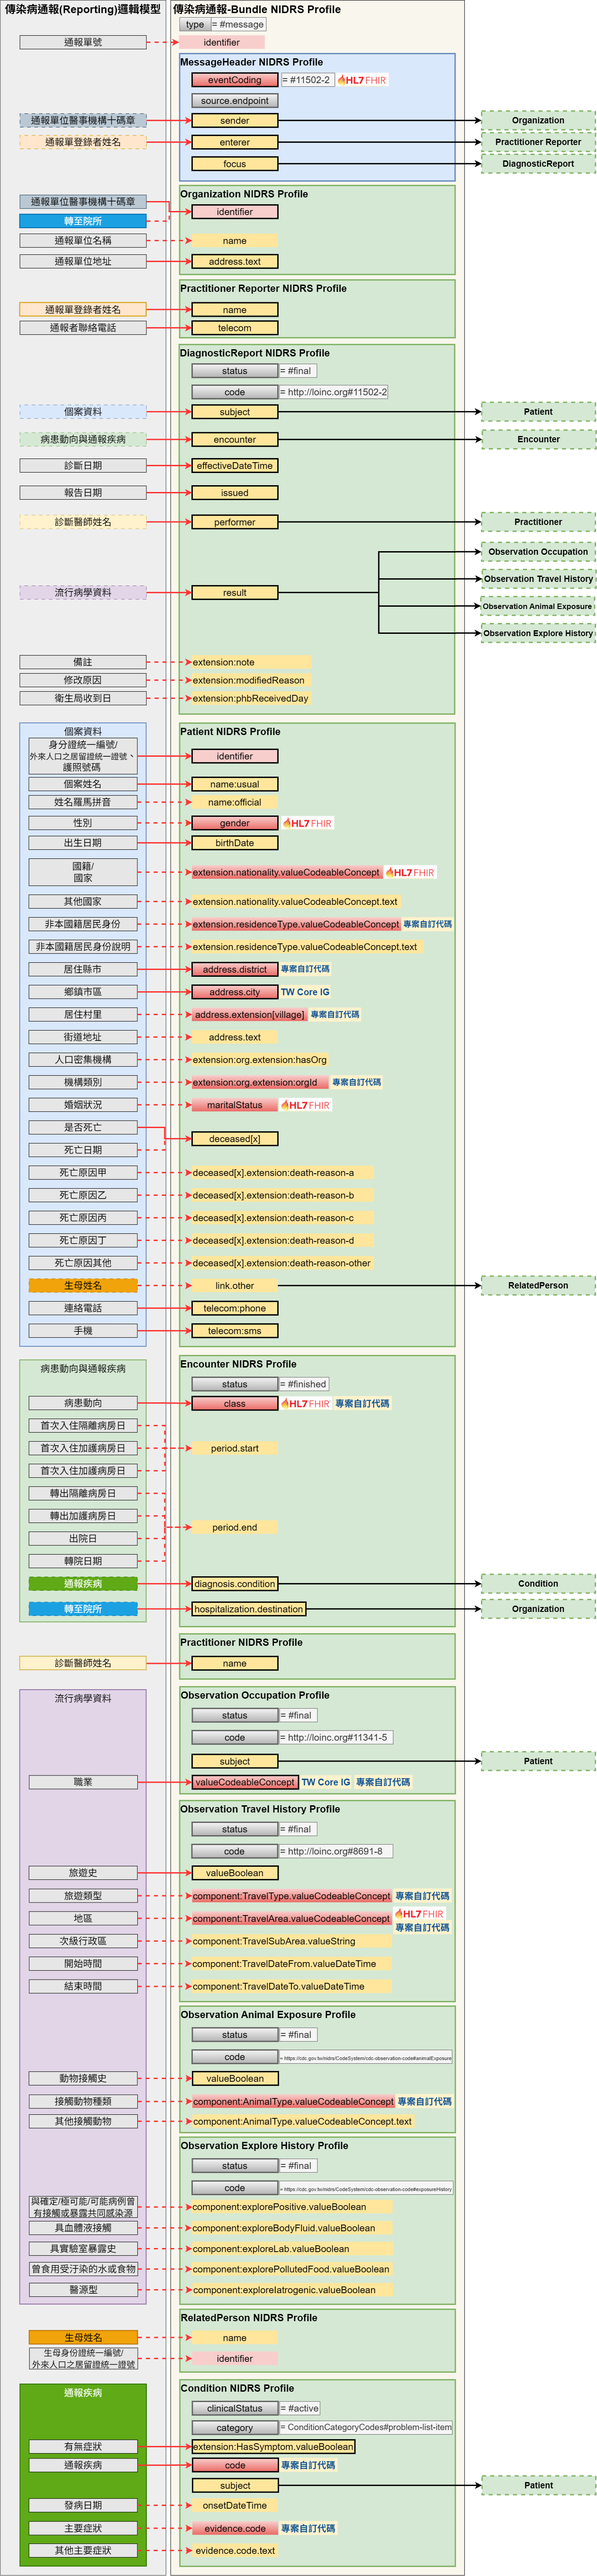
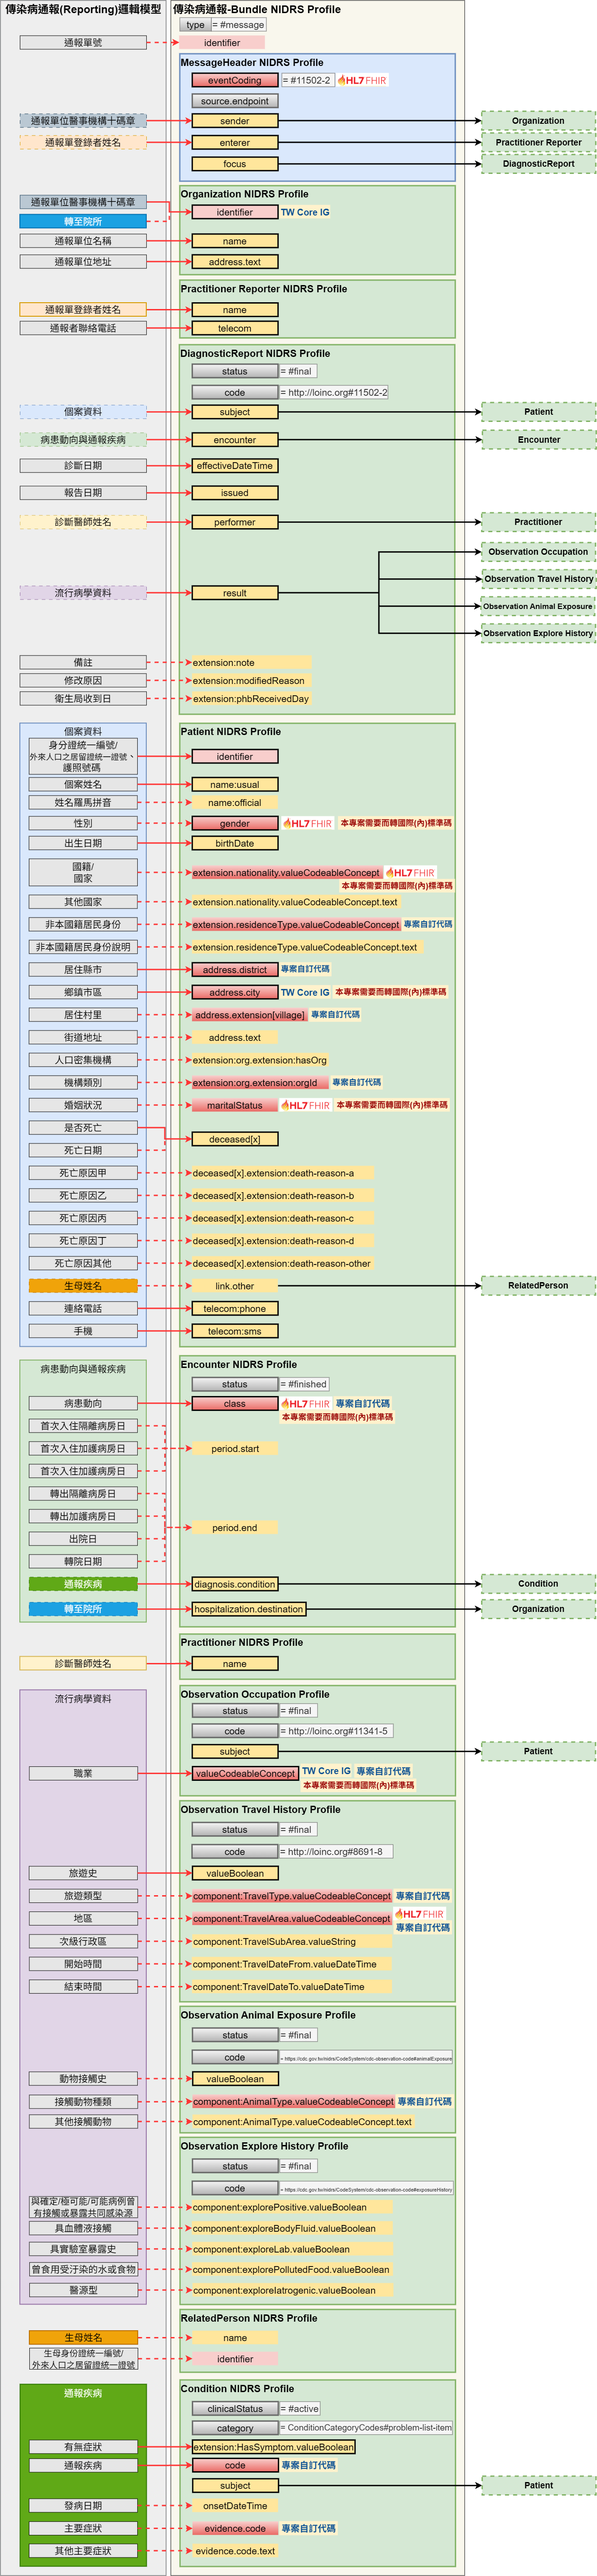
1008

diff --git a/custom-template/content/searchform.html b/custom-template/content/searchform.html
@@ -1,132 +1,132 @@
 <!DOCTYPE HTML>
 <html xml:lang="en" xmlns="http://www.w3.org/1999/xhtml" lang="en">
-  <head>
-    <meta charset="UTF-8" />
-    <title>Search {{title}} (Current Build)</title>
-    <meta name="viewport" content="width=device-width, initial-scale=1.0" />
-    <meta name="author" content="http://www.hl7.org" />
-    <link href="assets/css/ig.css" rel="stylesheet" />
-    <!-- Bootstrap core CSS -->
-    <link href="dist-hist/css/bootstrap.css" rel="stylesheet" />
-    <link href="assets-hist/css/bootstrap-fhir.css" rel="stylesheet" />
-    <!-- Project extras -->
-    <link href="assets-hist/css/project.css" rel="stylesheet" />
-    <link href="assets-hist/css/pygments-manni.css" rel="stylesheet" />
-    <link href="jquery-ui.css" rel="stylesheet" />
-    <!-- Favicons -->
-    <link rel="apple-touch-icon-precomposed" sizes="144x144" href="assets/ico/apple-touch-icon-144-precomposed.png" />
-    <link rel="apple-touch-icon-precomposed" sizes="114x114" href="assets/ico/apple-touch-icon-114-precomposed.png" />
-    <link rel="apple-touch-icon-precomposed" sizes="72x72" href="assets/ico/apple-touch-icon-72-precomposed.png" />
-    <link rel="apple-touch-icon-precomposed" href="assets/ico/apple-touch-icon-57-precomposed.png" />
-    <link rel="shortcut icon" href="assets/ico/favicon.png" />
-    <link href="history.css" rel="stylesheet" />
-  </head>
-  <body>
-    <div id="segment-header" class="segment">
-      <!-- segment-header -->
-      <div class="container">
-        <!-- container -->
-        <a id="project-nav" no-external="true" href="index.html">
-          <img height="60" alt="TW" src="assets/images/logo-header.png">
+
+<head>
+  <meta charset="UTF-8" />
+  <title>Search {{title}} (Current Build)</title>
+  <meta name="viewport" content="width=device-width, initial-scale=1.0" />
+  <meta name="author" content="http://www.hl7.org" />
+  <link href="assets/css/ig.css" rel="stylesheet" />
+  <!-- Bootstrap core CSS -->
+  <link href="dist-hist/css/bootstrap.css" rel="stylesheet" />
+  <link href="assets-hist/css/bootstrap-fhir.css" rel="stylesheet" />
+  <!-- Project extras -->
+  <link href="assets-hist/css/project.css" rel="stylesheet" />
+  <link href="assets-hist/css/pygments-manni.css" rel="stylesheet" />
+  <link href="jquery-ui.css" rel="stylesheet" />
+  <!-- Favicons -->
+  <link rel="apple-touch-icon-precomposed" sizes="144x144" href="assets/ico/apple-touch-icon-144-precomposed.png" />
+  <link rel="apple-touch-icon-precomposed" sizes="114x114" href="assets/ico/apple-touch-icon-114-precomposed.png" />
+  <link rel="apple-touch-icon-precomposed" sizes="72x72" href="assets/ico/apple-touch-icon-72-precomposed.png" />
+  <link rel="apple-touch-icon-precomposed" href="assets/ico/apple-touch-icon-57-precomposed.png" />
+  <link rel="shortcut icon" href="assets/ico/favicon.png" />
+  <link href="history.css" rel="stylesheet" />
+</head>
+
+<body>
+  <div id="segment-header" class="segment">
+    <!-- segment-header -->
+    <div class="container">
+      <!-- container -->
+      <a id="project-nav" no-external="true" href="index.html">
+        <img height="60" alt="TW" src="assets/images/logo-header.png" />
+      </a>
+      <div id="family-nav">
+        <a id="fhir-logo" no-external="true" href="http://hl7.org/fhir">
+          <img height="60" alt="Visit the FHIR website" src="assets/images/fhir-logo-www.png" />
         </a>
-        <div id="family-nav">
-          <a id="fhir-logo" no-external="true" href="http://hl7.org/fhir">
-            <img height="60" alt="Visit the FHIR website" src="assets/images/fhir-logo-www.png">
-          </a>
-        </div>
-        <div id="ig-status">
-          <b id="ig-title">Search {{title}} (Current Build)</b>
-        </div>
       </div>
-      <div class="container">
-        <!-- container -->
+      <div id="ig-status">
+        <b id="ig-title">Search {{title}} (Current Build)</b>
       </div>
     </div>
-    <!-- /segment-header -->
-    <div id="segment-navbar" class="segment">
-      <!-- segment-navbar -->
-      <div id="stripe"></div>
-      <div class="container">
-        <!-- container -->
-        <!-- HEADER CONTENT -->
-        <nav class="navbar navbar-inverse">
-          <div class="container">
-            <button data-target=".navbar-inverse-collapse" class="navbar-toggle" data-toggle="collapse" type="button">
-              <span class="icon-bar"></span>
-              <span class="icon-bar"></span>
-              <span class="icon-bar"></span>
-            </button>
-            <a class="navbar-brand hidden" href="http://hl7.org/fhir/index.html">FHIR</a>
-            <div class="nav-collapse collapse navbar-inverse-collapse">
-              <ul class="nav navbar-nav">
+    <div class="container">
+      <!-- container -->
+    </div>
+  </div>
+  <!-- /segment-header -->
+  <div id="segment-navbar" class="segment">
+    <!-- segment-navbar -->
+    <div id="stripe"></div>
+    <div class="container">
+      <!-- container -->
+      <!-- HEADER CONTENT -->
+      <nav class="navbar navbar-inverse">
+        <div class="container">
+          <button data-target=".navbar-inverse-collapse" class="navbar-toggle" data-toggle="collapse" type="button">
+            <span class="icon-bar"></span>
+            <span class="icon-bar"></span>
+            <span class="icon-bar"></span>
+          </button>
+          <a class="navbar-brand hidden" href="http://hl7.org/fhir/index.html">FHIR</a>
+          <div class="nav-collapse collapse navbar-inverse-collapse">
+            <ul class="nav navbar-nav">
               <li><a href="index.html">Specification</a></li>
               <li><a href="history.html">History</a></li>
-              </ul>
-            </div>
-            <!-- /.nav-collapse -->
+            </ul>
           </div>
-          <!-- /.container -->
-        </nav>
-        <!-- /.navbar -->
-        <!-- /HEADER CONTENT -->
-      </div>
-      <!-- /container -->
-    </div>
-    <!-- /segment-navbar -->
-    <!-- ============BreadCrumb=============== -->
+          <!-- /.nav-collapse -->
+        </div>
+        <!-- /.container -->
+      </nav>
+      <!-- /.navbar -->
+      <!-- /HEADER CONTENT -->
     </div>
     <!-- /container -->
-    </div>
-    <!-- /segment-breadcrumb -->
-    <div id="segment-content" class="segment">
-      <!-- segment-content -->
-      <div class="container">
-        <!-- container -->
-        <div class="row">
-          <div class="inner-wrapper">
-            <div class="col-12">
-              <h2>Search {{title}} (Current Build)</h2>
-              <iframe src="https://duckduckgo.com/search.html?site=tb.cdc.gov.tw/tb/&amp;prefill=Search 傳染病通報系統實作指引&amp;focus=yes" style="overflow:hidden;margin:0;padding:0;width:408px;height:40px;" frameborder="0"></iframe>
-              <hr />
-              <p> Note: this search searches the curent build of {{title}}. </p>
-            </div>
+  </div>
+  <!-- /segment-navbar -->
+  <div id="segment-content" class="segment">
+    <!-- segment-content -->
+    <div class="container">
+      <!-- container -->
+      <div class="row">
+        <div class="inner-wrapper">
+          <div class="col-12">
+            <h2>Search {{title}} (Current Build)</h2>
+            <iframe
+              src="https://duckduckgo.com/search.html?site=tb.cdc.gov.tw/tb/&amp;prefill=Search 傳染病通報系統實作指引&amp;focus=yes"
+              style="overflow:hidden;margin:0;padding:0;width:408px;height:40px;" frameborder="0"></iframe>
+            <hr />
+            <p> Note: this search searches the curent build of {{title}}. </p>
           </div>
-          <!-- /inner-wrapper -->
-        </div>
-        <!-- /row -->
-      </div>
-      <!-- /container -->
-    </div>
-    <!-- /segment-content -->
-    </div>
-    </div>
-    <!-- /inner-wrapper --></div>
-    <!-- /row --></div>
-    <!-- /container --></div>
-    <!-- /segment-content --><div id="segment-footer" class="segment">
-      <!-- segment-footer --><div class="container">
-        <!-- container --><div class="inner-wrapper">
-          <p>
-            <span id="ig-footer"> tw.cdc.fhir.cdclabreporting: 傳染病通報系統實作指引 </span> &reg;&copy; <a style="color: #81BEF7" href="https://www.cdc.gov.tw">衛福部疾管署</a> |
-            <!--  <a style="color: #81BEF7" rel="license"  <href="../license.html"><img style="border-style: none;" alt="CC0" src="cc0.png"/></a> -->
-            <a style="color: #81BEF7" rel="license" href="http://hl7.org/fhir/license.html">
-              <img style="border-style: none;" alt="CC0" src="cc0.png" />
-            </a>
-          </p>
         </div>
         <!-- /inner-wrapper -->
       </div>
-      <!-- /container -->
+      <!-- /row -->
     </div>
-    <!-- /segment-footer -->
-    <!-- disqus thread -->
-    <!-- disqus -->
-    <!-- end disqus --><div id="segment-post-footer" class="segment hidden">
-      <!-- segment-post-footer --><div class="container">
-        <!-- container -->
+    <!-- /container -->
+  </div>
+  <!-- /segment-content -->
+  <div id="segment-footer" class="segment">
+    <!-- segment-footer -->
+    <div class="container">
+      <!-- container -->
+      <div class="inner-wrapper">
+        <p>
+          <span id="ig-footer"> tw.cdc.fhir.cdclabreporting: 傳染病通報系統實作指引 </span> &reg;&copy; <a style="color: #81BEF7"
+            href="https://www.cdc.gov.tw">衛福部疾管署</a> |
+          <!--  <a style="color: #81BEF7" rel="license"  <href="../license.html"><img style="border-style: none;" alt="CC0" src="cc0.png"/></a> -->
+          <a style="color: #81BEF7" rel="license" href="http://hl7.org/fhir/license.html">
+            <img style="border-style: none;" alt="CC0" src="cc0.png" />
+          </a>
+        </p>
       </div>
-      <!-- /container -->
+      <!-- /inner-wrapper -->
     </div>
-    <!-- /segment-post-footer -->
-  </body>
+    <!-- /container -->
+  </div>
+  <!-- /segment-footer -->
+  <!-- disqus thread -->
+  <!-- disqus -->
+  <!-- end disqus -->
+  <div id="segment-post-footer" class="segment hidden">
+    <!-- segment-post-footer -->
+    <div class="container">
+      <!-- container -->
+    </div>
+    <!-- /container -->
+  </div>
+  <!-- /segment-post-footer -->
+</body>
+
 </html>

diff --git a/input/pagecontent/examples.md b/input/pagecontent/examples.md
@@ -1,43 +1,43 @@
 以下為本IG所有Profiles的範例，範例中之代碼連結皆為代碼系統連結。
 
-#### Bundle
+### Bundle
 
 - [傳染病通報](Bundle-bun.html)：依據傳染病通報-Bundle NIDRS Profile呈現傳染病通報之範例
 
-#### MessageHeader
+### MessageHeader
 
 - [通報訊息](MessageHeader-mesHea.html)：依據通報訊息-MessageHeader NIDRS Profile呈現通報訊息之範例
 
-#### Organization
+### Organization
 
 - [醫事機構](Organization-hosp.html)：依據醫事機構-Organization NIDRS Profile呈現醫事機構之範例
 
-#### Practitioner
+### Practitioner
 
 - [通報單登錄者](Practitioner-reporter.html)：依據通報單登錄者-Practitioner Reporter NIDRS Profile呈現通報單登錄者之範例
 - [診斷醫師](Practitioner-diagnostician.html)：依據醫師-Practitioner NIDRS Profile呈現診斷醫師之範例
 
-#### DiagnosticReport
+### DiagnosticReport
 
 - [診斷報告](DiagnosticReport-diaRep.html)：依據診斷報告-DiagnosticReport NIDRS Profile呈現診斷報告之範例
 
-#### Patient
+### Patient
 
 - [個案資料](Patient-example.html)：依據個案資料-Patient NIDRS Profile呈現個案資料之範例
 
-#### RelatedPerson
+### RelatedPerson
 
 - [個案生母資料](RelatedPerson-mom.html)：依據個案生母資料-RelatedPerson NIDRS Profile呈現個案生母資料之範例
 
-#### Encounter
+### Encounter
 
 - [病患動向與通報疾病](Encounter-hospitalized.html)：依據病患動向與通報疾病-Encounter NIDRS Profile呈現病患動向與通報疾病之範例
 
-#### Condition
+### Condition
 
 - [通報疾病(簡單病)](Condition-simple-disease.html)：依據通報疾病(簡單病)-Condition NIDRS Profile呈現簡單病之範例
 
-#### Observation
+### Observation
 
 - [職業](Observation-occupation.html)：依據職業-Observation Occupation Profile呈現職業之範例
 - [旅遊史](Observation-travel-history.html)：依據旅遊史-Observation Travel History Profile呈現旅遊史之範例

diff --git a/input/pagecontent/ImplementationGuide-tw.gov.mohw.cdc.nidrs.md b/input/pagecontent/ImplementationGuide-tw.gov.mohw.cdc.nidrs.md
@@ -14,21 +14,21 @@
 - [XML](ImplementationGuide-tw.gov.mohw.cdc.nidrs.xml)
 - [JSON](ImplementationGuide-tw.gov.mohw.cdc.nidrs.json)
 
-#### Cross Version Analysis
+### Cross Version Analysis
 
 {% capture cross-version-analysis %}{% include cross-version-analysis.xhtml %}{% endcapture %}{{ cross-version-analysis | remove: '<p>' | remove: '</p>'}}
 
-#### IG Dependencies
+### IG Dependencies
 
 This IG Contains the following dependencies on other IGs.
 
 {% include dependency-table.xhtml %}
 
-#### Global Profiles
+### Global Profiles
 
 {% include globals-table.xhtml %}
 
-#### Copyrights
+### Copyrights
 
 {% capture ip-statement %}{% include ip-statements.xhtml %}{% endcapture %}
 
